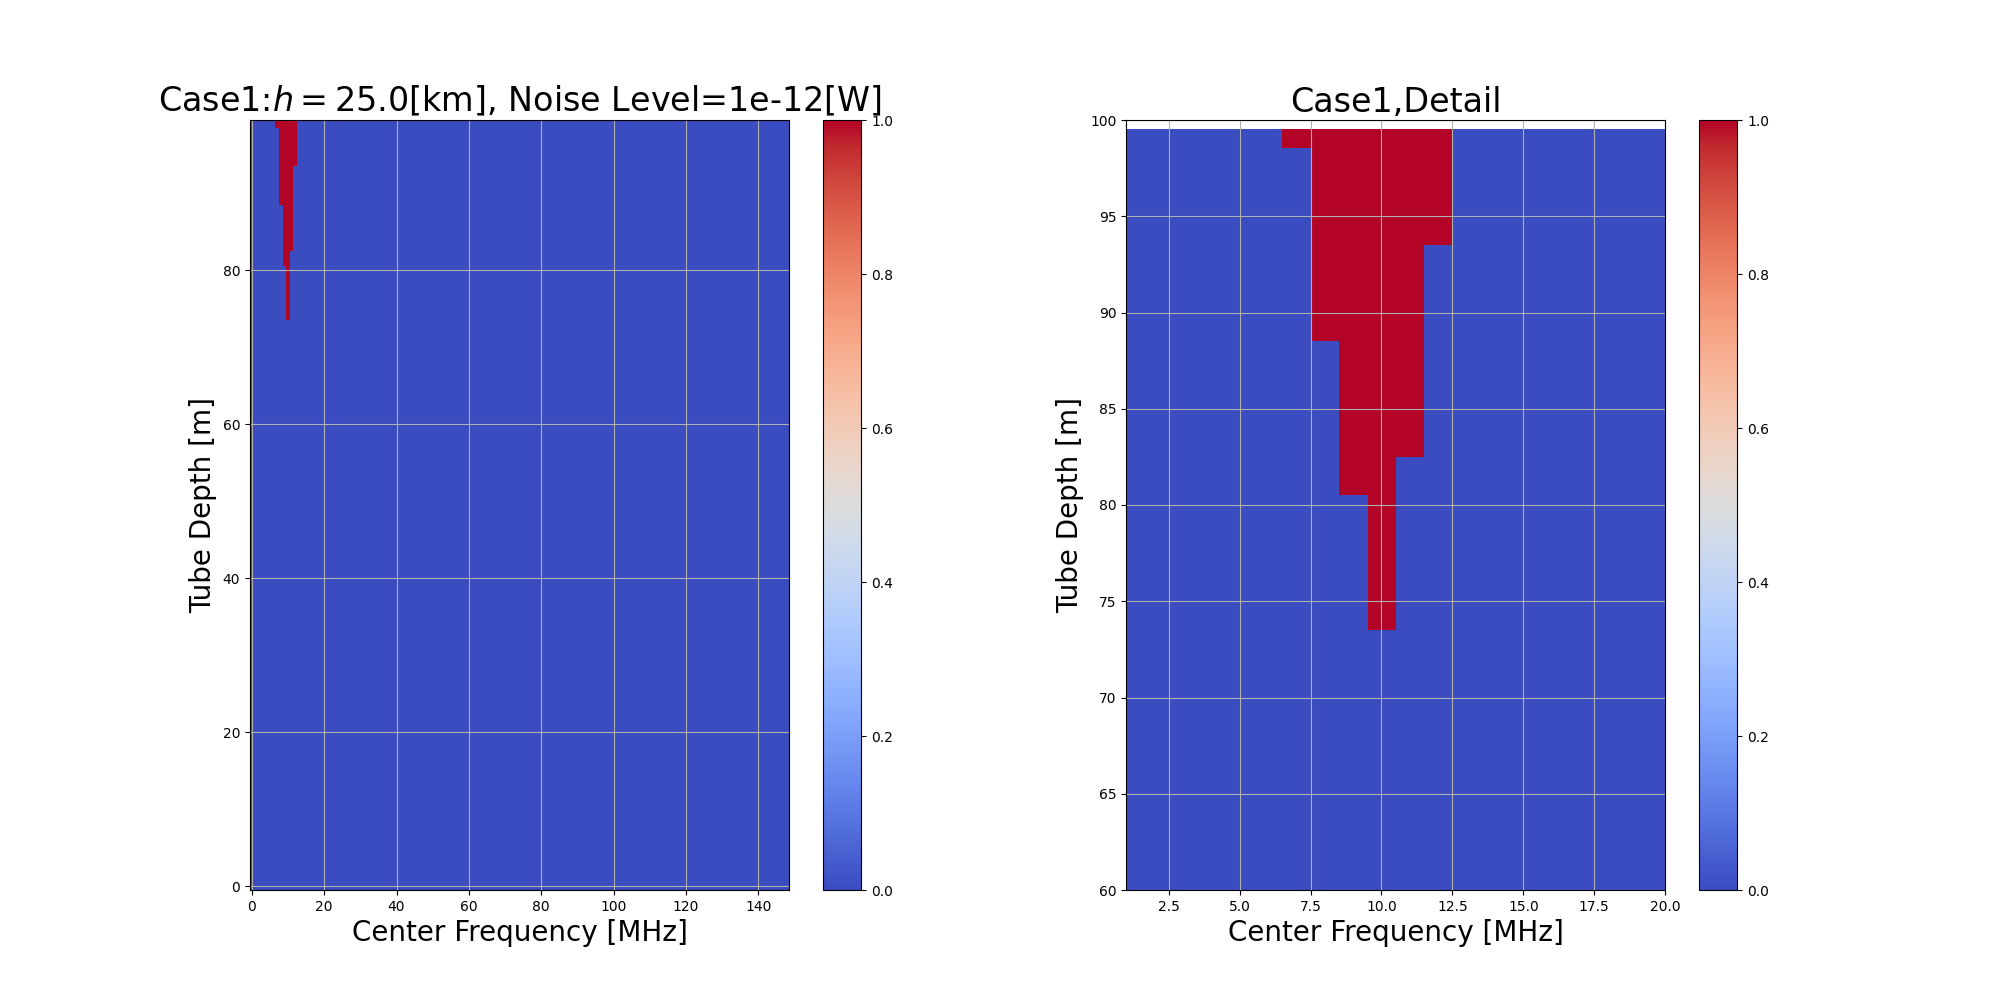
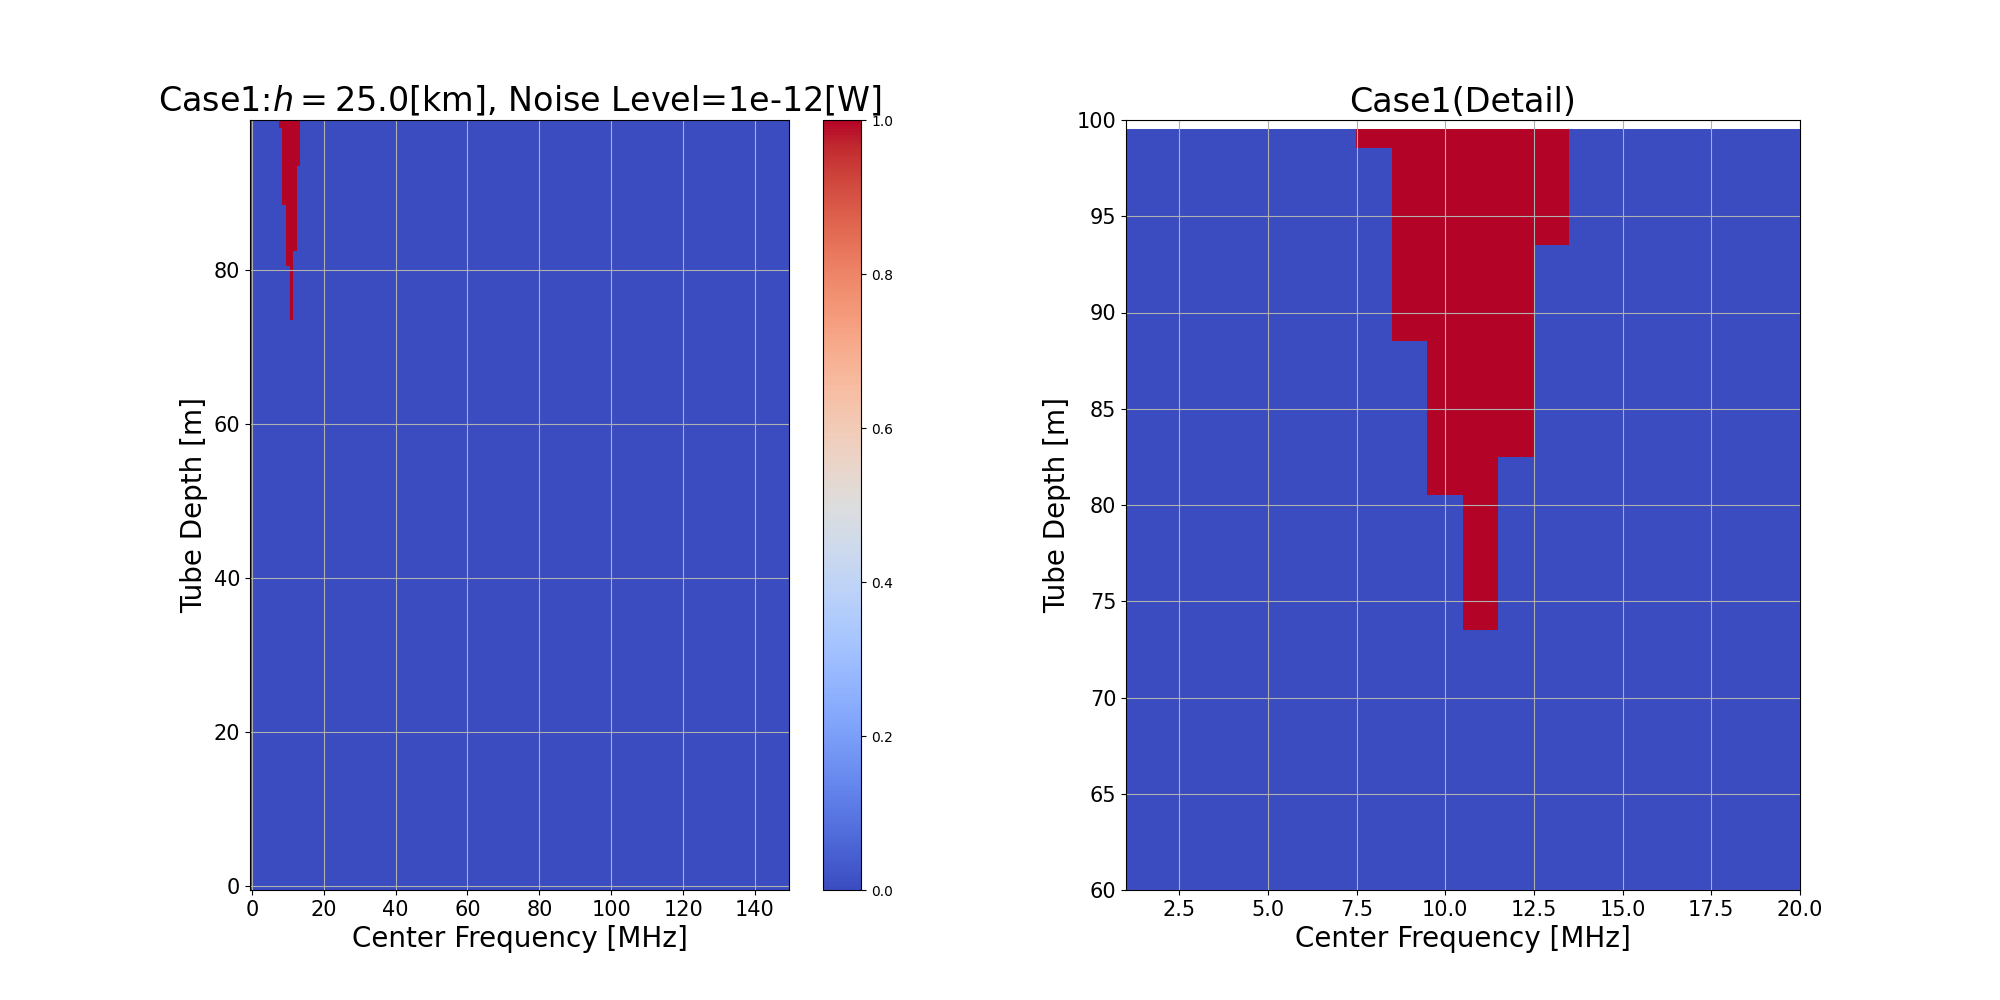
LRS,Case1~6まで一通り雑にプロット作った

diff --git a/detectability.py b/detectability.py
@@ -69,6 +69,8 @@ def calc_detectability():
 
             if Pr > noise_dB and dR <= d/6:
                 fd_array[index_d, index_f] = 1
+            else:
+                fd_array[index_d, index_f] = 0
             
     return fd_array
 
@@ -97,8 +99,8 @@ plt.figure(figsize=(20, 10))
 plt.subplots_adjust(wspace=0.3)
 
 plt.subplot(1, 2, 1)
-plt.imshow(fd_array, cmap='coolwarm', origin='lower', aspect='auto')
-plt.colorbar()
+plt.imshow(fd_array, cmap='coolwarm', origin='lower', aspect='auto',  vmin=0, vmax=1)
+#plt.colorbar()
 
 # タイトルの設定
 if params_file == 'rover':
@@ -109,27 +111,25 @@ else:
         r"$h = $" + str(altitude/1000) +'[km], '+  'Noise Level=' + str(params['noise_level']) + '[W]', size = 24)
 plt.xlabel('Center Frequency [MHz]', size=20)  # 横軸のラベルを設定
 plt.ylabel('Tube Depth [m]', size=20)  # 縦軸のラベルを設定
+plt.tick_params(axis='both', labelsize=15)
 plt.grid()
 
 x_min = 1
-x_max = 20
-y_min = 60
+x_max = 90
+y_min = 10
 y_max = 100
 
 plt.subplot(1, 2, 2)
-plt.imshow(fd_array, cmap='coolwarm', origin='lower', aspect='auto')
-plt.colorbar()
+plt.imshow(fd_array, cmap='coolwarm', origin='lower', aspect='auto', vmin=0, vmax=1)
+#plt.colorbar()
 
 # タイトルの設定
-if params_file == 'rover':
-    plt.title('Case'+ str(params['case_number']) + ':' \
-        r"$P_t = $" + str(Pt) +'[W], '+  r'$G_t =$' + str(params['antenna_gain']) + '[dBi]', size = 24)
-else:
-    plt.title('Case'+ str(params['case_number']) +',Detail', size = 24)
+plt.title('Case'+ str(params['case_number']) +'(Detail)', size = 24)
 plt.xlim(x_min, x_max)
 plt.ylim(y_min, y_max)
 plt.xlabel('Center Frequency [MHz]', size=20)  # 横軸のラベルを設定
 plt.ylabel('Tube Depth [m]', size=20)  # 縦軸のラベルを設定
+plt.tick_params(axis='both', labelsize=15)
 plt.grid()
 
 
